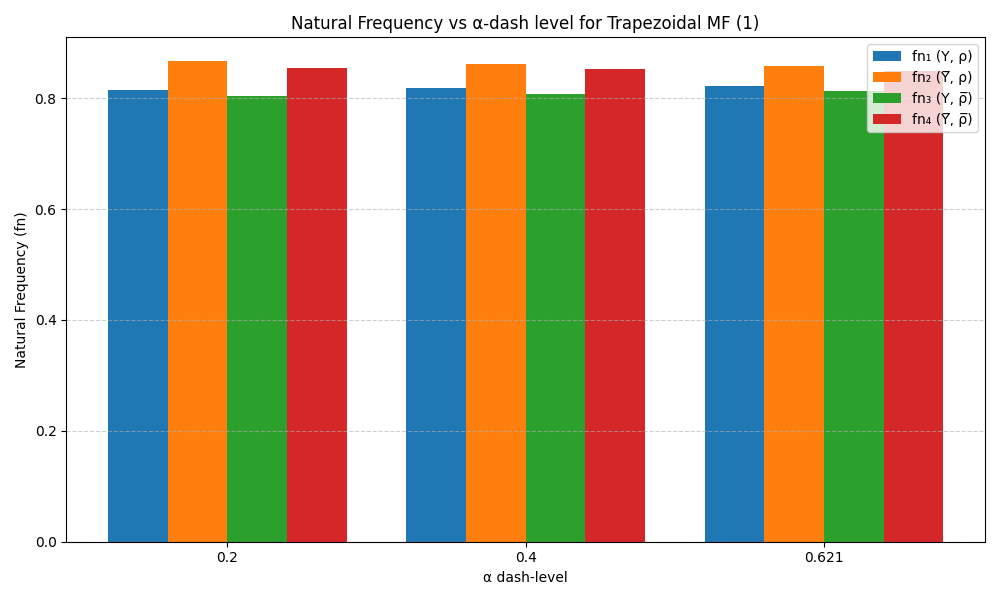
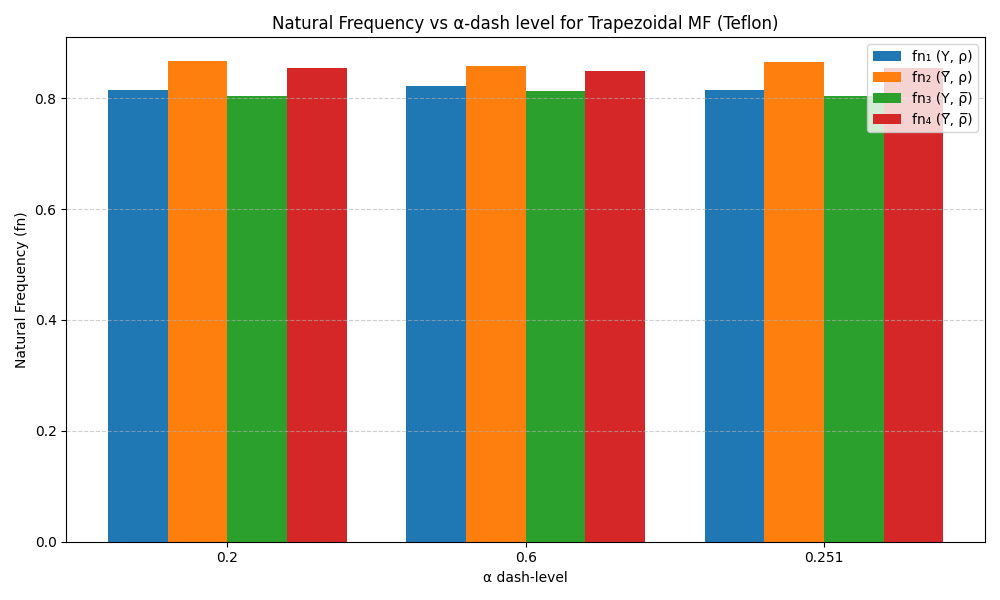
first commit

diff --git a/templates/graph.html b/templates/graph.html
@@ -129,9 +129,10 @@
 
         .color-panel input[type="color"] {
             width: 60px;
-            height: 40px;
+            height: 30px;
             margin-right: 15px;
             cursor: pointer;
+            margin-top: 10px;
         }
 
         .apply-gradient-btn {

diff --git a/app.py b/app.py
@@ -98,8 +98,8 @@ def graph():
     fn_dict_dash = fn_dict = ''
     materials = tbl_materials.query.filter_by(mat_status=1).all()  # Only active materials
     if request.method=='POST':
-        ddlfuntion = request.form.get('ddlfuntion')  
-        ddlmaterials = request.form.get('ddlmaterials')      
+        ddlfuntion = request.form.get('ddlfuntion')  # ID
+        ddlmat_ID = request.form.get('ddlmaterials') # ID 
         a1 = safe_float(request.form.get('alpha1'))
         a2 = safe_float(request.form.get('alpha2'))
         a3 = safe_float(request.form.get('alpha3'))
@@ -107,17 +107,20 @@ def graph():
         a4 = safe_float(request.form.get('alpha_dash1'))
         a5 = safe_float(request.form.get('alpha_dash2'))
         a6 = safe_float(request.form.get('alpha_dash3'))     
+        material = tbl_materials.query.filter_by(mat_id=ddlmat_ID).first()
+        mat_name = material.mat_name if material else None
+        print("Material Name =====>>>>", mat_name)
         if(ddlfuntion == '1'):    
             alpha_cuts = [a1, a2, a3]        
             fn_dict = GetFuns(alpha_cuts)
             g2 = 'Bar_alpha' + 'MF' + '.png' 
-            g1 = GetBarChat(alpha_cuts,fn_dict,g2,ddlmaterials, 1)
+            g1 = GetBarChat(alpha_cuts,fn_dict,g2,mat_name, 1)
             # Alpha dash code
             alpha_dash_cuts = [a4, a5, a6]        
             fn_dict_dash = GetFuns(alpha_dash_cuts)
             g4 = 'Bar_alpha_dash' + 'MF' + '.png' 
-            g3 = GetBarChat(alpha_dash_cuts,fn_dict_dash,g4,ddlmaterials, 2)
-        return render_template('graph.html',fn_dict= fn_dict,alpha_cuts=alpha_cuts,alpha_dash_cuts=alpha_dash_cuts,fn_dict_dash=fn_dict_dash,g1=g1,g2=g2,g3=g3,g4=g4,a1=a1,a2=a2,a3=a3,a4=a4,a5=a5,a6=a6,s1=ddlmaterials,s2=ddlfuntion,materials=materials)
+            g3 = GetBarChat(alpha_dash_cuts,fn_dict_dash,g4,mat_name, 2)
+        return render_template('graph.html',fn_dict= fn_dict,alpha_cuts=alpha_cuts,alpha_dash_cuts=alpha_dash_cuts,fn_dict_dash=fn_dict_dash,g1=g1,g2=g2,g3=g3,g4=g4,a1=a1,a2=a2,a3=a3,a4=a4,a5=a5,a6=a6,s1=ddlmat_ID,s2=ddlfuntion,materials=materials)
     
     return render_template('graph.html',g1=g1,g2=g2,g3=g3,g4=g4,materials=materials,s1=None)
 
@@ -213,7 +216,6 @@ def add_Materials(ddlmaterials,material):
     return myMsg
 def add_Alpha(a1,a2,a3,a4,a5,a6,ddlfuntion,ddlmaterials):
     myMsg = ''   
-    
     # Check if email or phone number already exists
     existing_record = tbl_alpha.query.filter((tbl_alpha.alpha_fm_id == ddlfuntion) & (tbl_alpha.alpha_mat_id == ddlmaterials)).first()
     if existing_record:
